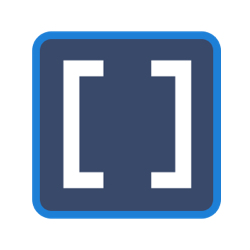
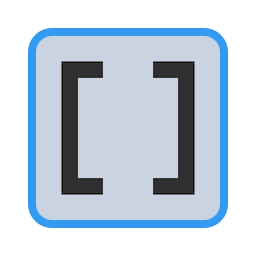
update

diff --git a/blogposts/going-beyond-regular-expressions-with-structural-code-search.md b/blogposts/going-beyond-regular-expressions-with-structural-code-search.md
@@ -9,8 +9,9 @@ heroImage: /blog/structural-search-hero.png
 published: true
 ---
 
-We're introducing a new way to search code at Sourcegraph with structural
-code search.
+We're introducing a new way to search code at Sourcegraph with structural code
+search. Structural code search lets you match nested expressions and whole code
+blocks that can be difficult or awkward to match using regular expressions.
 
 ## What _is_ structural code search?
 
@@ -67,7 +68,7 @@ memory into the kernelspace memory. This function has a history of [careful
 auditing](https://www.defcon.org/images/defcon-19/dc-19-presentations/Cook/DEFCON-19-Cook-Kernel-Exploitation.pdf)
 because incorrect uses can (and have) lead to vulnerabilities. We can find all
 `copy_from_user` calls with a query like `copy_from_user(:[args])`. Try it
-live:
+live (the <img src="images/brackets.png"> button toggles structural search):
 
 <div style="padding-left: 2rem">
 
